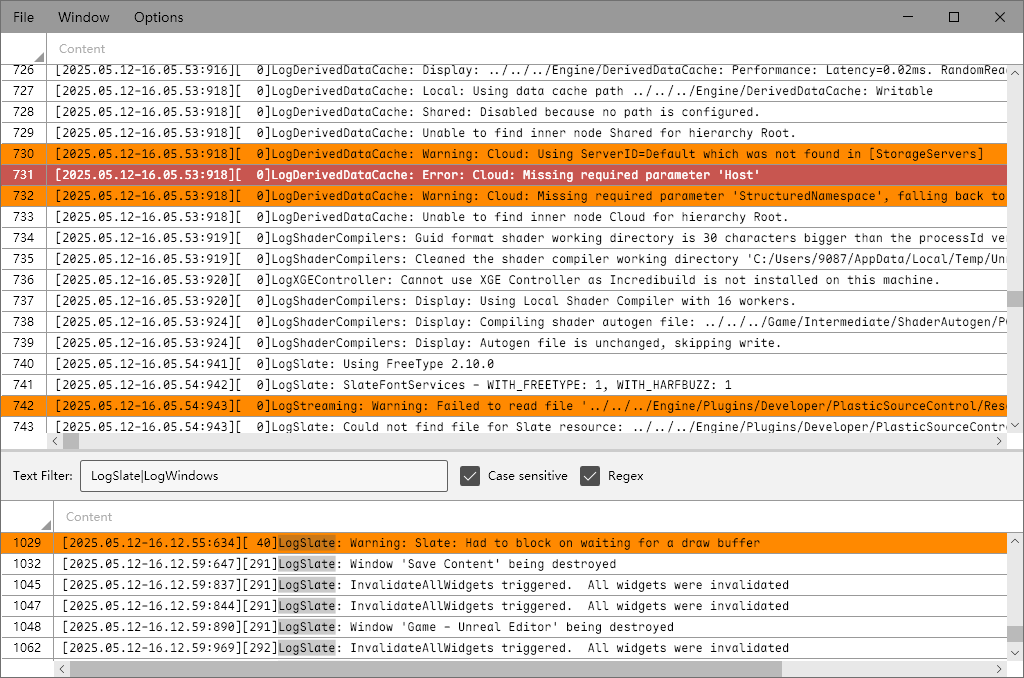
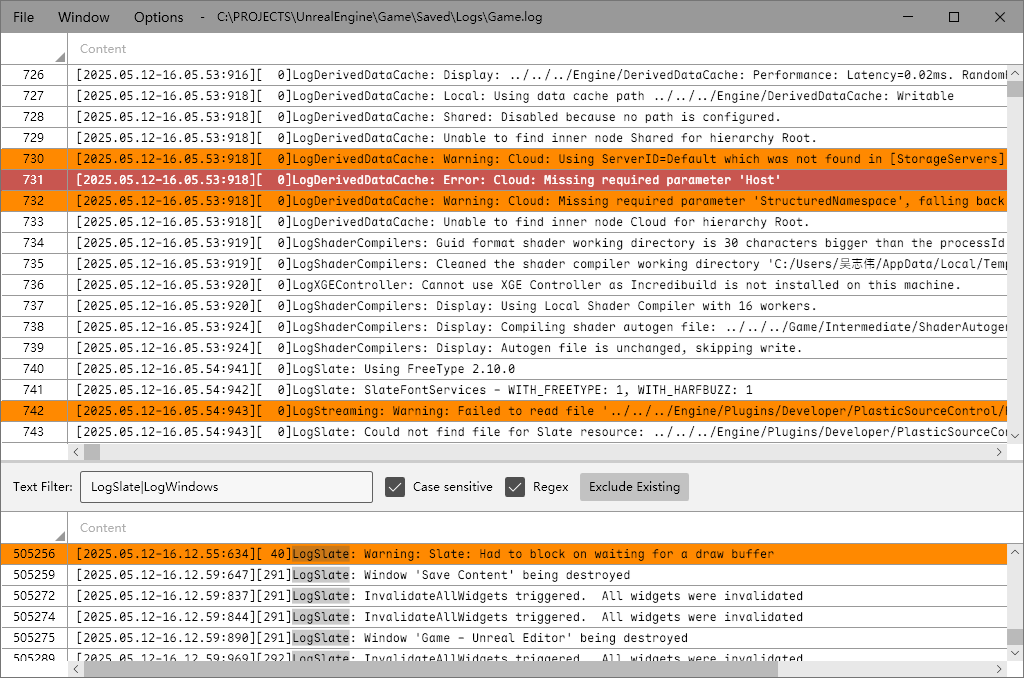
Update README.md.

diff --git a/LogGenius.Timeline/TimelineView.xaml b/LogGenius.Timeline/TimelineView.xaml
@@ -250,7 +250,7 @@
           <TextBlock
             Grid.Row="1"
             FontSize="52"
-            Text="{}{YourProperty=0.618}"
+            Text="{}{SomeVariable=0.618}"
             MinWidth="0"
             Width="auto"
             >

diff --git a/README.md b/README.md
@@ -6,6 +6,34 @@ LogGenius is a lightweight, scalable log viewer for Windows.
 
 ## Feature
 
+**Highlight**
+
 The Highlight Settings dialog lets you customize colors for different matches, with options for case sensitivity and regular expressions:
 
 ![](Documents/Highlight.png)
+
+**Filter with the log number**
+
+Through the sub-items of the `Exclude` menu by right-clicking on a log entry, or by directly clicking the `Exclude Existing` button, filtering can be performed based on the log number:
+
+![](Documents/ExcludeMenu.png)
+
+Click the `Exclude Until ...` button to cancel the filtering. Click the refresh button on the right to reset the filter position to the current last entry:
+
+![](Documents/Excluded.png)
+
+**Timeline**
+
+LogGenius will automatically parse variable assignment statements that conform to the following format:
+
+```
+{SomeVariable=0.618}
+```
+
+For example, you can output the sampling results of a parabola (currently, only Unreal's log date format is supported):
+
+![](Documents/Timeline1.png)
+
+Click the menu `Window - Timeline` to display the variable's curve in a timeline view:
+
+![](Documents/Timeline2.png)
